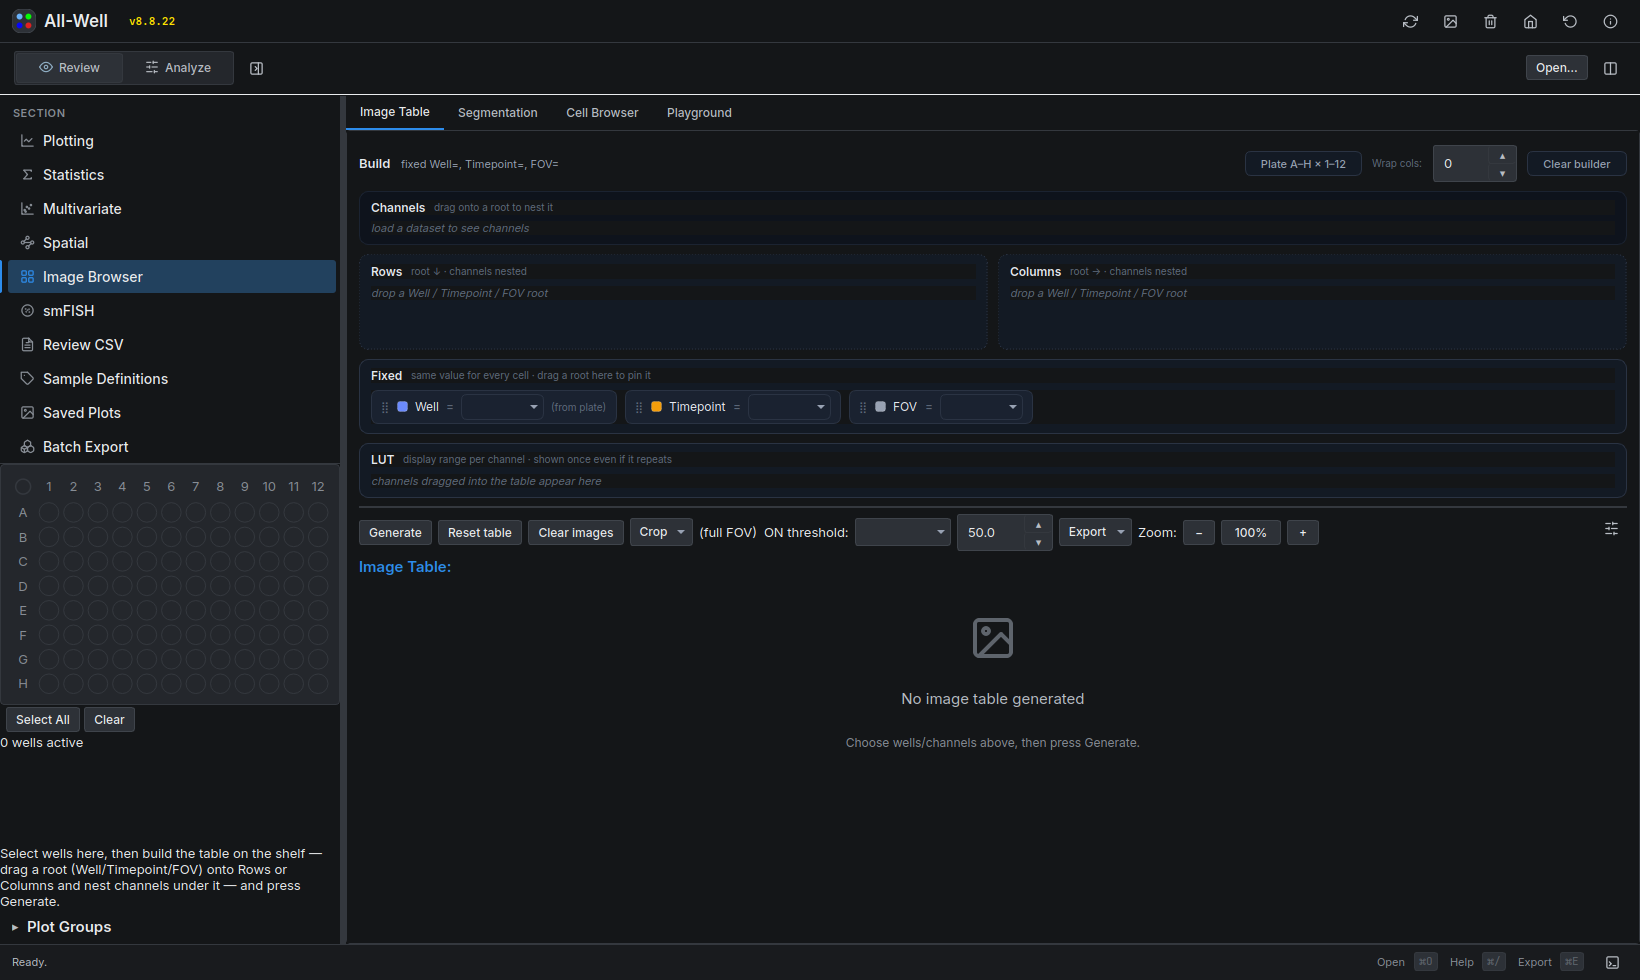
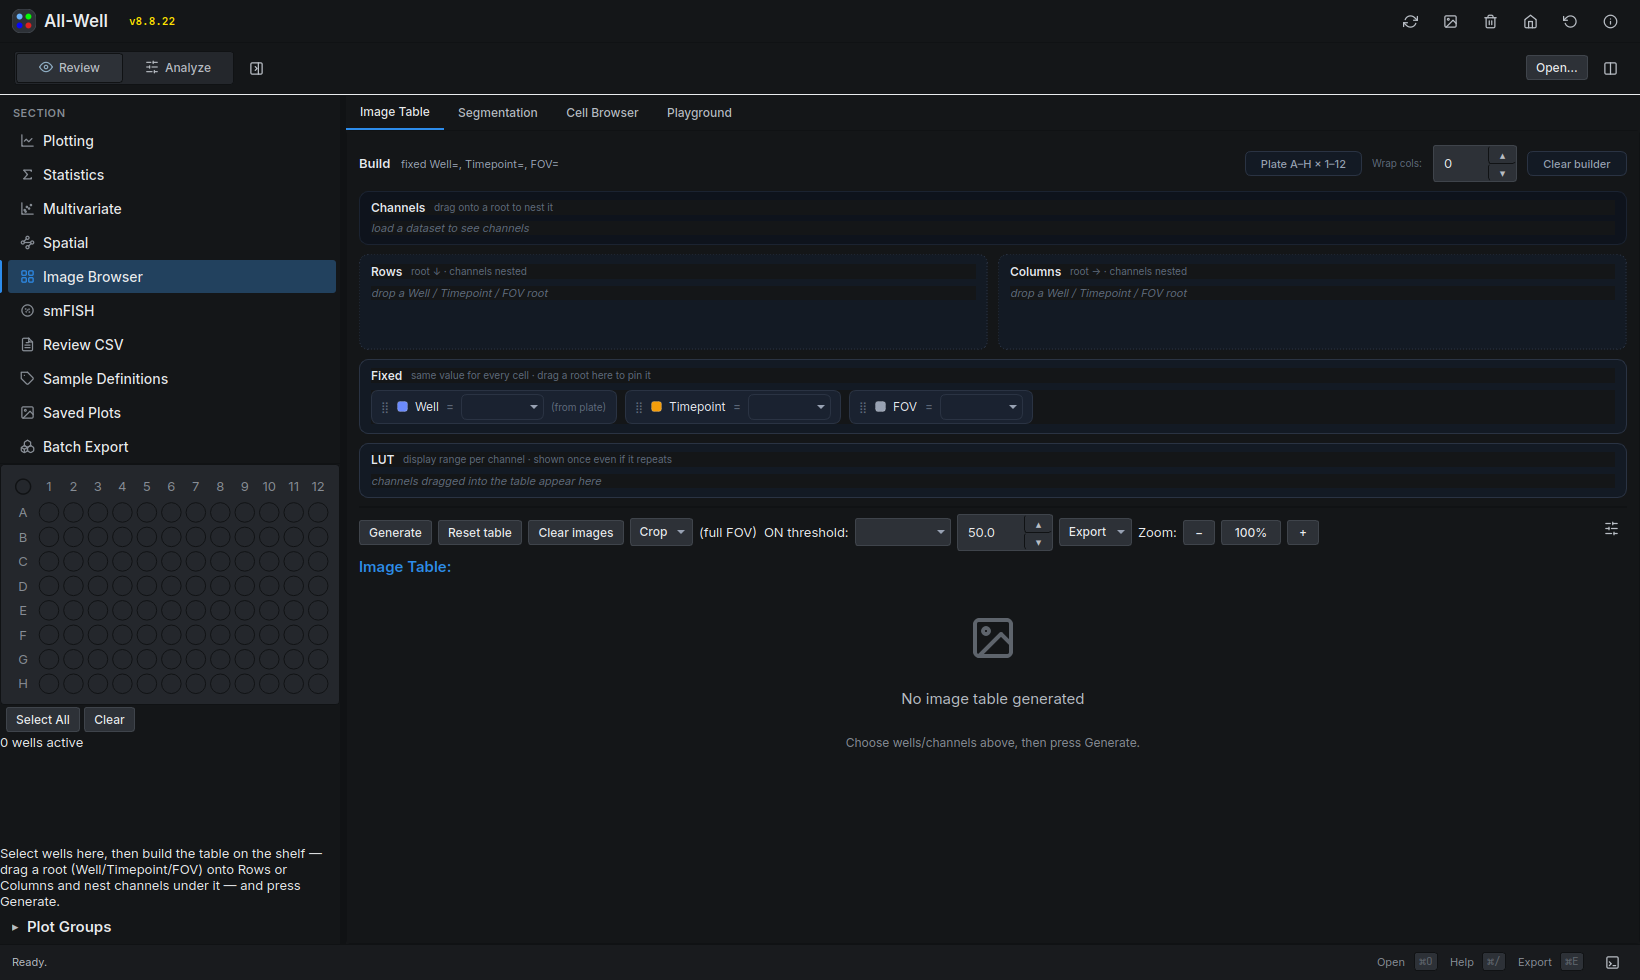
allwell-grey: darken structural dividers
The sidebar/main/top-bar seams (and panel edges) all draw from border_subtle,
which read too light against the darkened grey surfaces. Darken the grey theme's
border_subtle (#34383E -> #101214) so region seams are subtle dark grooves
rather than light lines. Control borders (border / control_border) are unchanged,
so buttons and inputs keep their crisp edges. Mockup + renders updated.

Claude-Session: https://claude.ai/code/session_01TTAnmHGEFmq5pch3irKB9Z

Changed region(s): [[0.1866, 0.1224, 0.2177, 0.9796], [0.9951, 0.1531, 1.0, 0.949]]

diff --git a/design/allwell_grey_theme_mockup.html b/design/allwell_grey_theme_mockup.html
@@ -33,7 +33,7 @@
 :root[data-theme="allwell-grey"] {
   --titlebar:#191B1E; --surface:#141618; --rail:#1F2226; --panel:#24272C;
   --panel-elevated:#2D3137; --hover:#373C43; --active:#3E444D;
-  --border-subtle:#34383E; --border:#3F444B; --border-strong:#50565E;
+  --border-subtle:#101214; --border:#3F444B; --border-strong:#50565E;
   --text-primary:#EAECEE; --text-secondary:#B8BDC4; --text-muted:#878D95; --text-faint:#5E646C;
   --accent:#2D8CEB; --accent-hover:#43A0FF; --accent-pressed:#1668B8; --accent-dim:#22415E; --accent-fg:#FFFFFF;
   --brand:transparent; --brand-fg:#FFE100;

diff --git a/theme.py b/theme.py
@@ -851,7 +851,11 @@ _ALLWELL_GREY = {
         "titlebar": "#191B1E", "surface": "#141618", "rail": "#1F2226",
         "panel": "#24272C", "panel_elevated": "#2D3137", "hover": "#373C43",
         "active": "#3E444D",
-        "border_subtle": "#34383E", "border": "#3F444B", "border_strong": "#50565E",
+        # Structural dividers (top-bar border, splitter handle, separators,
+        # panel edges) read this. Kept a touch darker than the surfaces so the
+        # region seams are subtle dark grooves rather than light lines. Control
+        # borders use ``border`` / ``control_border`` and stay crisp.
+        "border_subtle": "#101214", "border": "#3F444B", "border_strong": "#50565E",
         "control_border": "#3F444B",
         "text_primary": "#EAECEE", "text_secondary": "#B8BDC4",
         "text_muted": "#878D95", "text_faint": "#5E646C",
